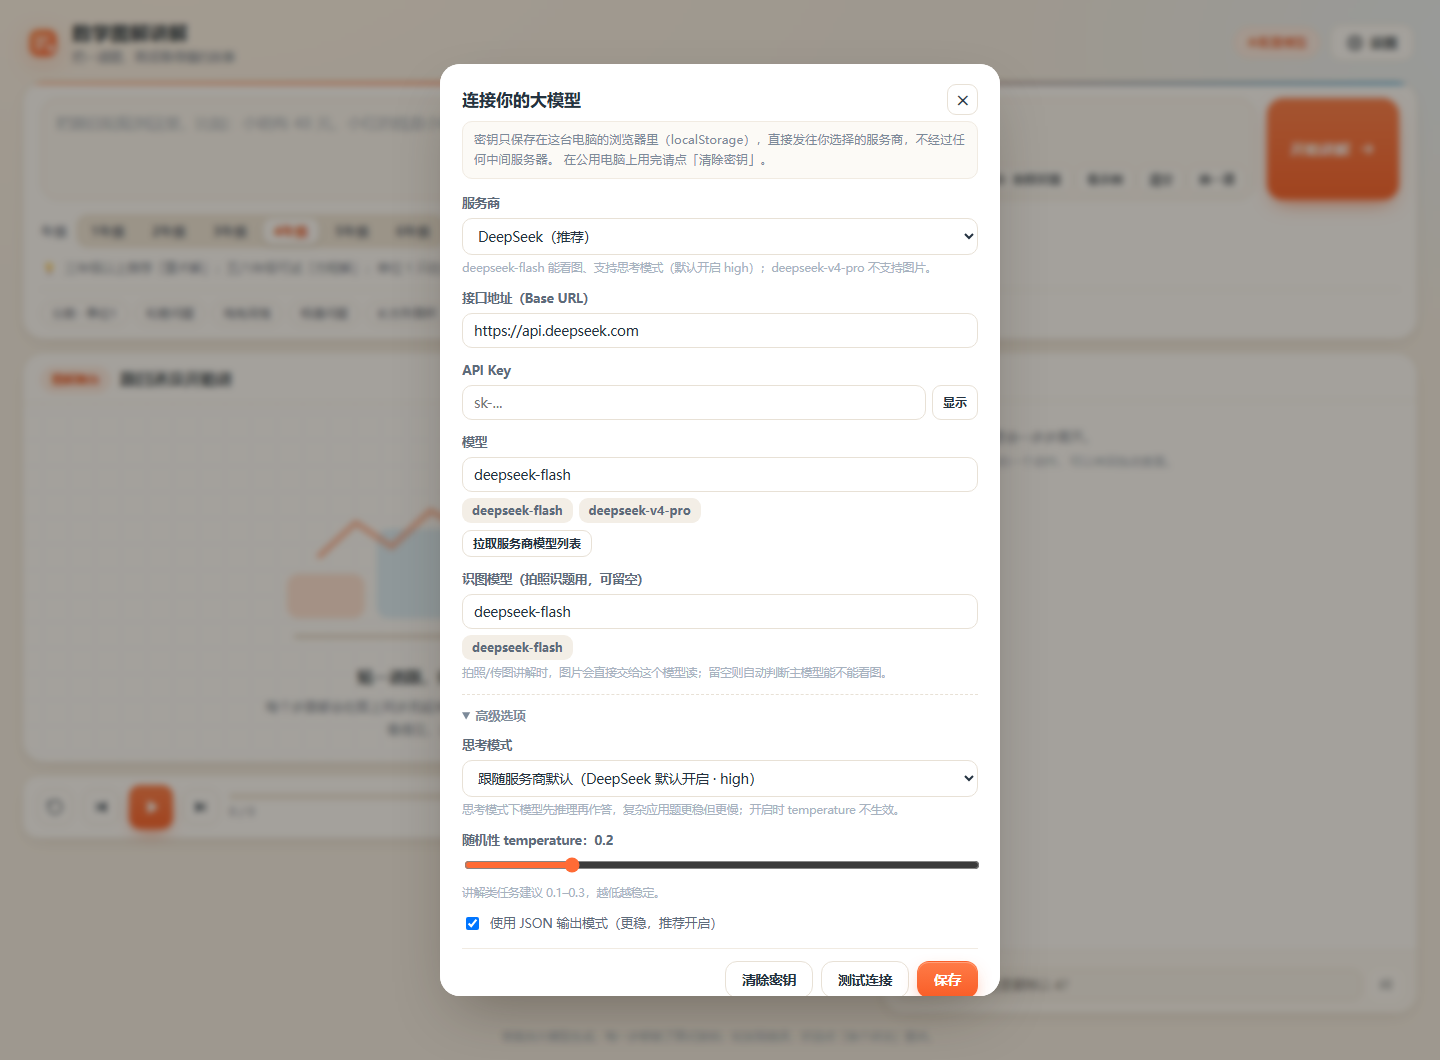
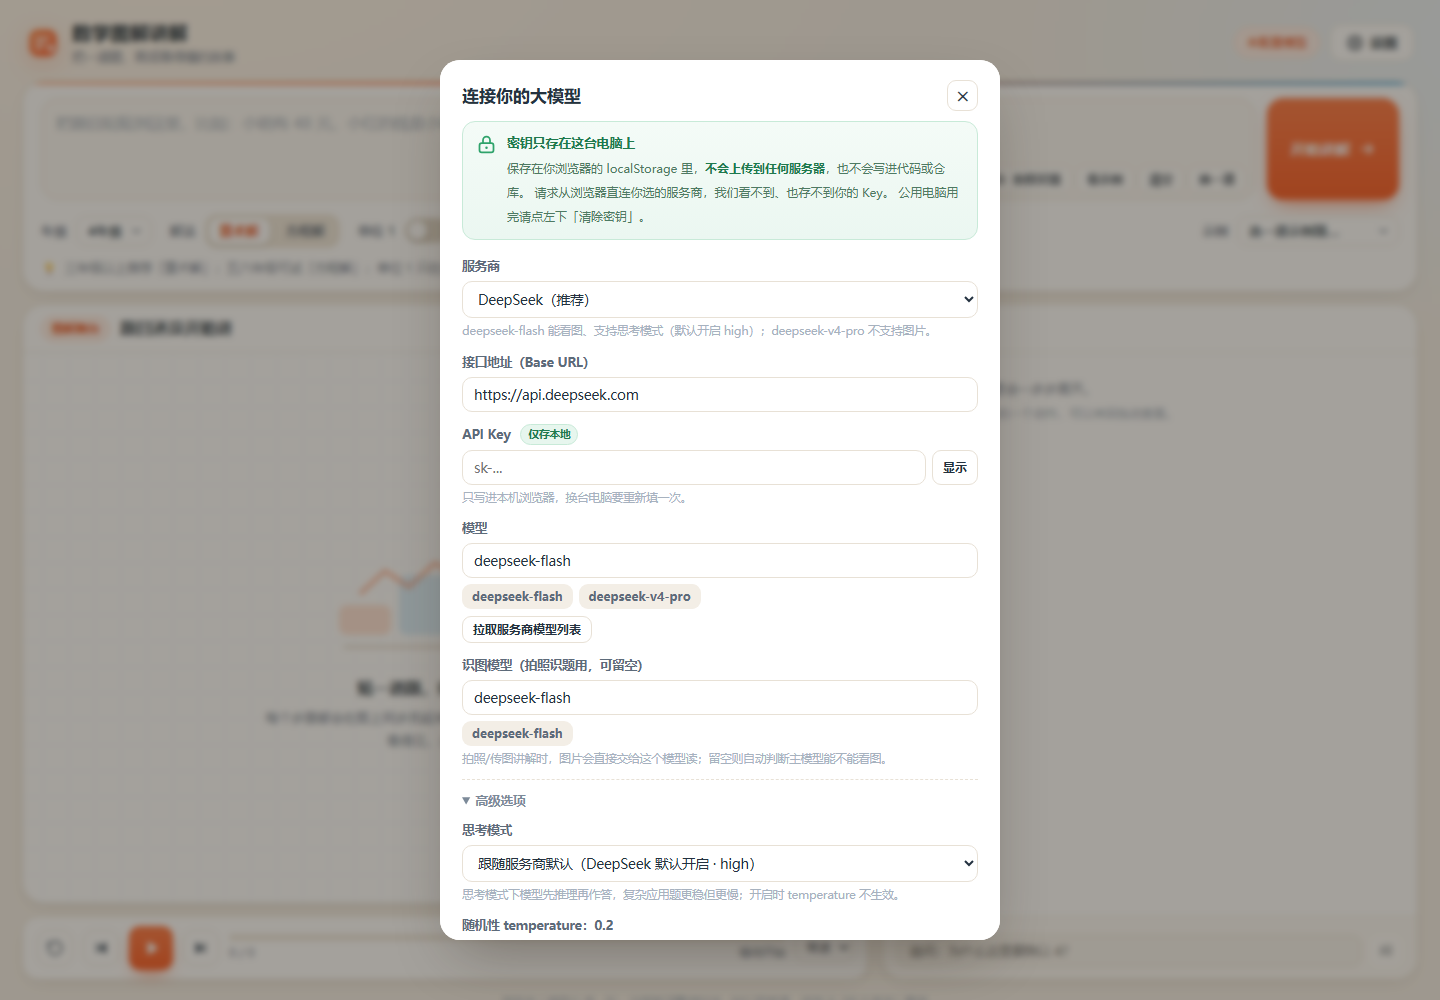
feat: 设置里明确标注 API Key 只存本地
- 弹窗顶部换成绿色隐私提示条（锁图标）：存在浏览器 localStorage、
  不上传任何服务器、不写进代码或仓库、公用电脑用完点「清除密钥」
- API Key 标签加「仅存本地」徽标，输入框下补一行「换台电脑要重新填」
- 自测 65 项

diff --git a/dist/math-tutor.html b/dist/math-tutor.html
@@ -438,6 +438,21 @@ button{font-family:inherit}
 .modal-head{display:flex;justify-content:space-between;align-items:center;gap:10px}
 .modal-head h3{font-size:17px}
 .modal-sub{font-size:12.3px;color:var(--muted);line-height:1.65;margin:6px 0 14px;padding:8px 11px;background:var(--panel-soft);border-radius:10px;border:1px solid var(--line-2)}
+.privacy-note{
+  display:flex;gap:10px;align-items:flex-start;
+  padding:11px 13px;margin:10px 0 16px;
+  background:linear-gradient(180deg,#F4FBF7,#EBF7F1);
+  border:1px solid #C8EAD8;border-radius:13px;
+}
+.privacy-note .ic{flex:none;width:21px;height:21px;color:#2FA36B;margin-top:1px}
+.privacy-note b{display:block;font-size:12.8px;color:#1F7A4D;margin-bottom:3px}
+.privacy-note span{font-size:12px;color:#4E7A63;line-height:1.62}
+.privacy-note span b{display:inline;font-size:12px;color:#1F7A4D}
+.local-tag{
+  display:inline-block;margin-left:6px;padding:1px 7px;border-radius:999px;
+  font-size:10.5px;font-weight:700;color:#1F7A4D;background:#E7F6EE;
+  border:1px solid #C8EAD8;vertical-align:1px;
+}
 .field{margin-bottom:12px}
 .field label{display:block;font-size:12.5px;font-weight:600;color:#5D6B7A;margin-bottom:5px}
 .field input[type=text],.field input[type=password],.field select{
@@ -553,7 +568,7 @@ input[type=range]{width:100%;accent-color:var(--brand)}
 <!--
   数学图解讲解 · Math Tutor
   单文件版本，由 build.mjs 从 src/ 生成，请勿直接编辑本文件。
-  构建版本：09ef153b
+  构建版本：50a4f867
   许可：MIT
 -->
 
@@ -745,10 +760,21 @@ input[type=range]{width:100%;accent-color:var(--brand)}
       <h3 id="setTitle">连接你的大模型</h3>
       <button class="btn icon ghost" type="button" data-close aria-label="关闭">✕</button>
     </div>
-    <p class="modal-sub">
-      密钥只保存在这台电脑的浏览器里（localStorage），直接发往你选择的服务商，不经过任何中间服务器。
-      在公用电脑上用完请点「清除密钥」。
-    </p>
+    <div class="privacy-note">
+      <svg class="ic" viewBox="0 0 24 24" fill="none" stroke="currentColor" stroke-width="2" stroke-linecap="round" stroke-linejoin="round" aria-hidden="true">
+        <rect x="4" y="10.5" width="16" height="10.5" rx="2.5"/>
+        <path d="M8 10.5V7a4 4 0 0 1 8 0v3.5"/>
+        <circle cx="12" cy="15.6" r="1.4" fill="currentColor" stroke="none"/>
+      </svg>
+      <div>
+        <b>密钥只存在这台电脑上</b>
+        <span>
+          保存在你浏览器的 localStorage 里，<b>不会上传到任何服务器</b>，也不会写进代码或仓库。
+          请求从浏览器直连你选的服务商，我们看不到、也存不到你的 Key。
+          公用电脑用完请点左下「清除密钥」。
+        </span>
+      </div>
+    </div>
 
     <div class="field">
       <label for="provider">服务商</label>
@@ -762,11 +788,12 @@ input[type=range]{width:100%;accent-color:var(--brand)}
     </div>
 
     <div class="field">
-      <label for="apiKey">API Key</label>
+      <label for="apiKey">API Key <span class="local-tag">仅存本地</span></label>
       <div class="input-eye">
         <input id="apiKey" type="password" spellcheck="false" autocomplete="off" placeholder="sk-..." />
         <button class="btn tiny ghost" type="button" id="btnEye">显示</button>
       </div>
+      <p class="field-note">只写进本机浏览器，换台电脑要重新填一次。</p>
     </div>
 
     <div class="field">

diff --git a/src/shell.html b/src/shell.html
@@ -198,10 +198,21 @@
       <h3 id="setTitle">连接你的大模型</h3>
       <button class="btn icon ghost" type="button" data-close aria-label="关闭">✕</button>
     </div>
-    <p class="modal-sub">
-      密钥只保存在这台电脑的浏览器里（localStorage），直接发往你选择的服务商，不经过任何中间服务器。
-      在公用电脑上用完请点「清除密钥」。
-    </p>
+    <div class="privacy-note">
+      <svg class="ic" viewBox="0 0 24 24" fill="none" stroke="currentColor" stroke-width="2" stroke-linecap="round" stroke-linejoin="round" aria-hidden="true">
+        <rect x="4" y="10.5" width="16" height="10.5" rx="2.5"/>
+        <path d="M8 10.5V7a4 4 0 0 1 8 0v3.5"/>
+        <circle cx="12" cy="15.6" r="1.4" fill="currentColor" stroke="none"/>
+      </svg>
+      <div>
+        <b>密钥只存在这台电脑上</b>
+        <span>
+          保存在你浏览器的 localStorage 里，<b>不会上传到任何服务器</b>，也不会写进代码或仓库。
+          请求从浏览器直连你选的服务商，我们看不到、也存不到你的 Key。
+          公用电脑用完请点左下「清除密钥」。
+        </span>
+      </div>
+    </div>
 
     <div class="field">
       <label for="provider">服务商</label>
@@ -215,11 +226,12 @@
     </div>
 
     <div class="field">
-      <label for="apiKey">API Key</label>
+      <label for="apiKey">API Key <span class="local-tag">仅存本地</span></label>
       <div class="input-eye">
         <input id="apiKey" type="password" spellcheck="false" autocomplete="off" placeholder="sk-..." />
         <button class="btn tiny ghost" type="button" id="btnEye">显示</button>
       </div>
+      <p class="field-note">只写进本机浏览器，换台电脑要重新填一次。</p>
     </div>
 
     <div class="field">

diff --git a/src/styles.css b/src/styles.css
@@ -430,6 +430,21 @@ button{font-family:inherit}
 .modal-head{display:flex;justify-content:space-between;align-items:center;gap:10px}
 .modal-head h3{font-size:17px}
 .modal-sub{font-size:12.3px;color:var(--muted);line-height:1.65;margin:6px 0 14px;padding:8px 11px;background:var(--panel-soft);border-radius:10px;border:1px solid var(--line-2)}
+.privacy-note{
+  display:flex;gap:10px;align-items:flex-start;
+  padding:11px 13px;margin:10px 0 16px;
+  background:linear-gradient(180deg,#F4FBF7,#EBF7F1);
+  border:1px solid #C8EAD8;border-radius:13px;
+}
+.privacy-note .ic{flex:none;width:21px;height:21px;color:#2FA36B;margin-top:1px}
+.privacy-note b{display:block;font-size:12.8px;color:#1F7A4D;margin-bottom:3px}
+.privacy-note span{font-size:12px;color:#4E7A63;line-height:1.62}
+.privacy-note span b{display:inline;font-size:12px;color:#1F7A4D}
+.local-tag{
+  display:inline-block;margin-left:6px;padding:1px 7px;border-radius:999px;
+  font-size:10.5px;font-weight:700;color:#1F7A4D;background:#E7F6EE;
+  border:1px solid #C8EAD8;vertical-align:1px;
+}
 .field{margin-bottom:12px}
 .field label{display:block;font-size:12.5px;font-weight:600;color:#5D6B7A;margin-bottom:5px}
 .field input[type=text],.field input[type=password],.field select{
